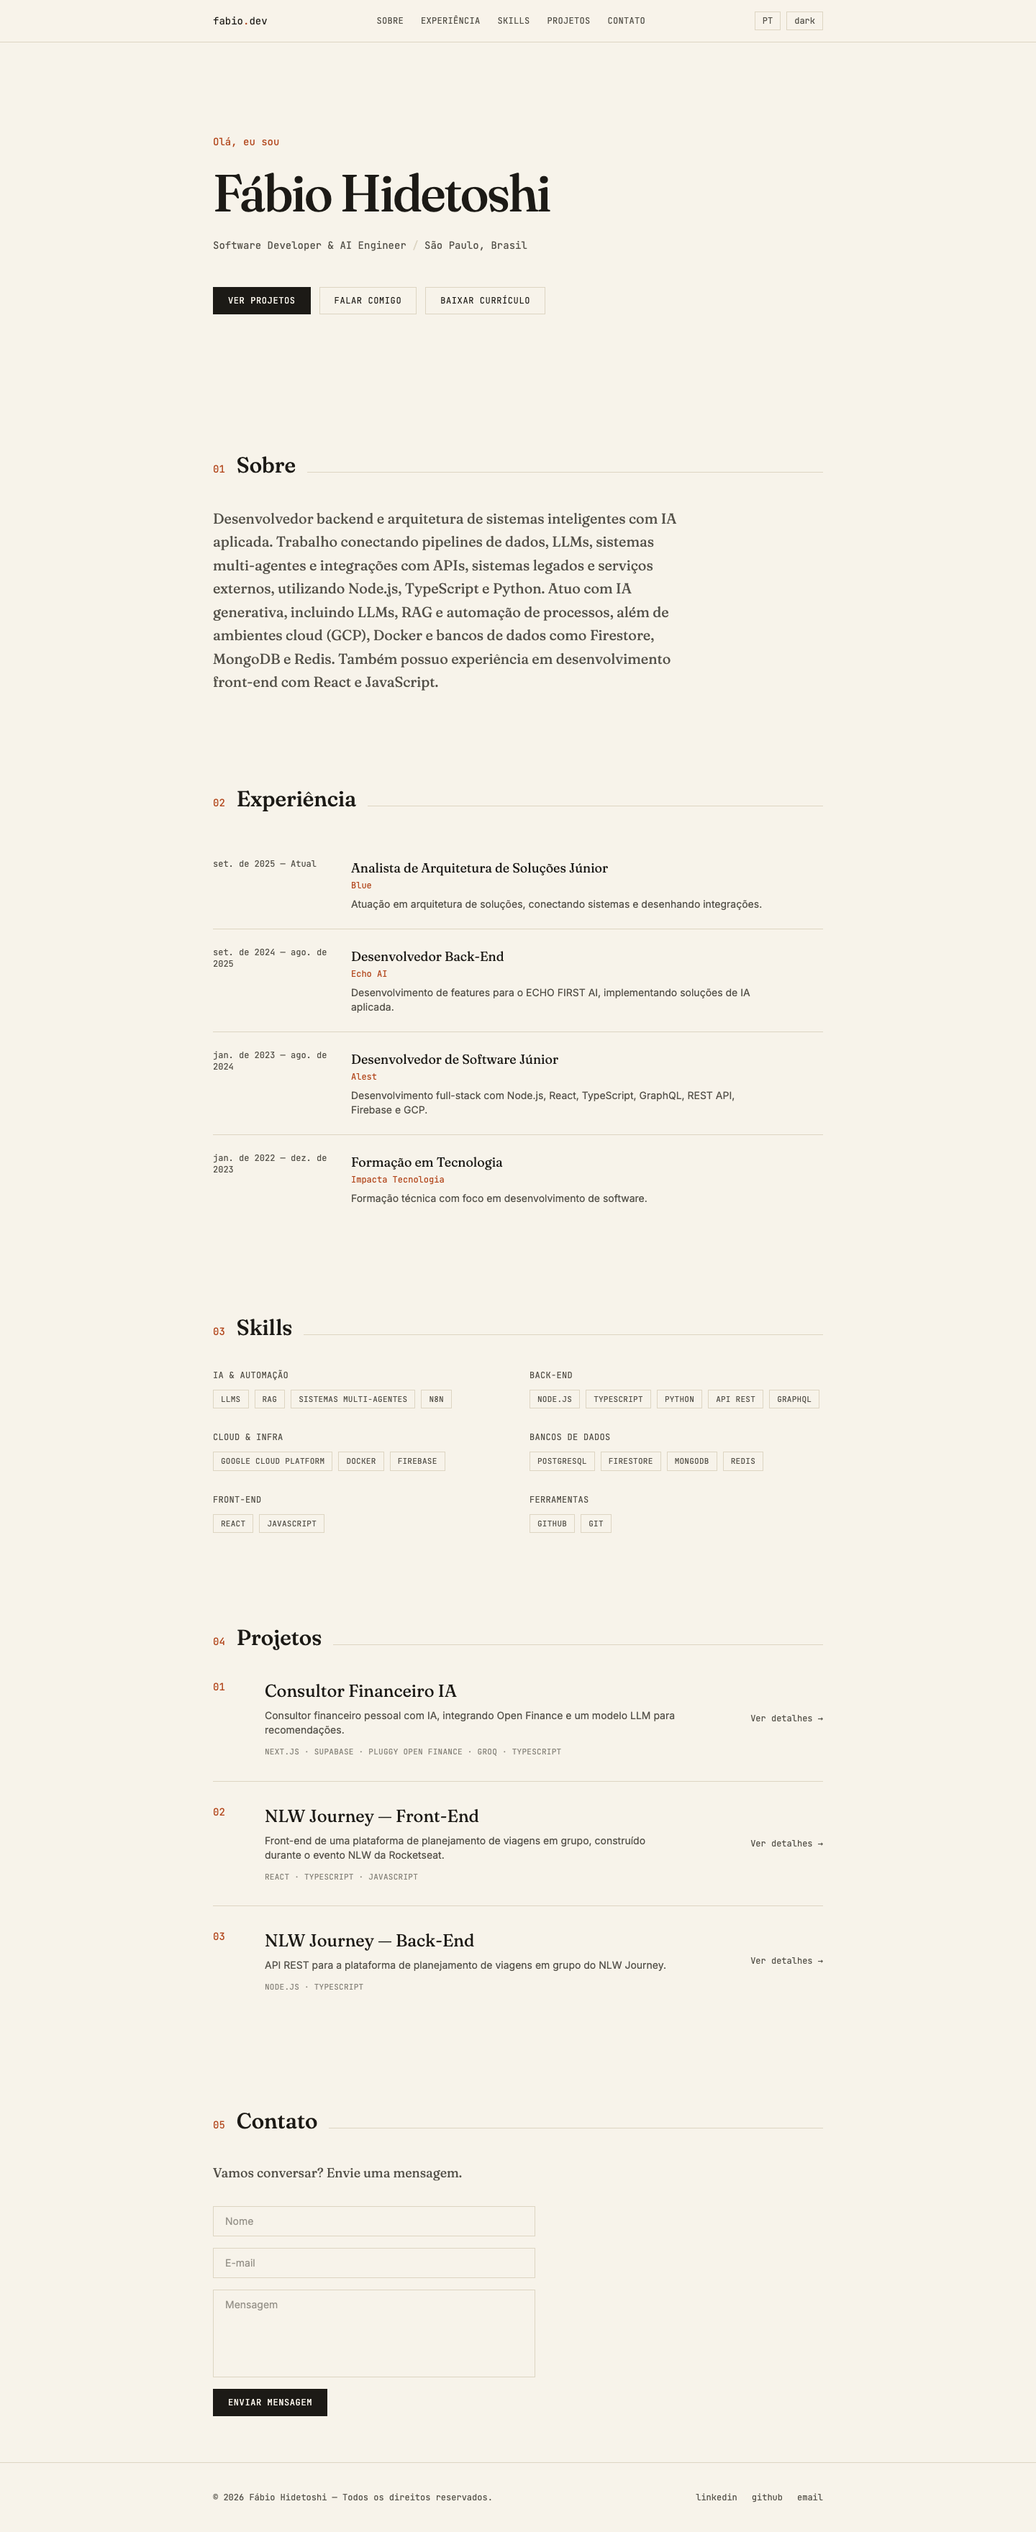
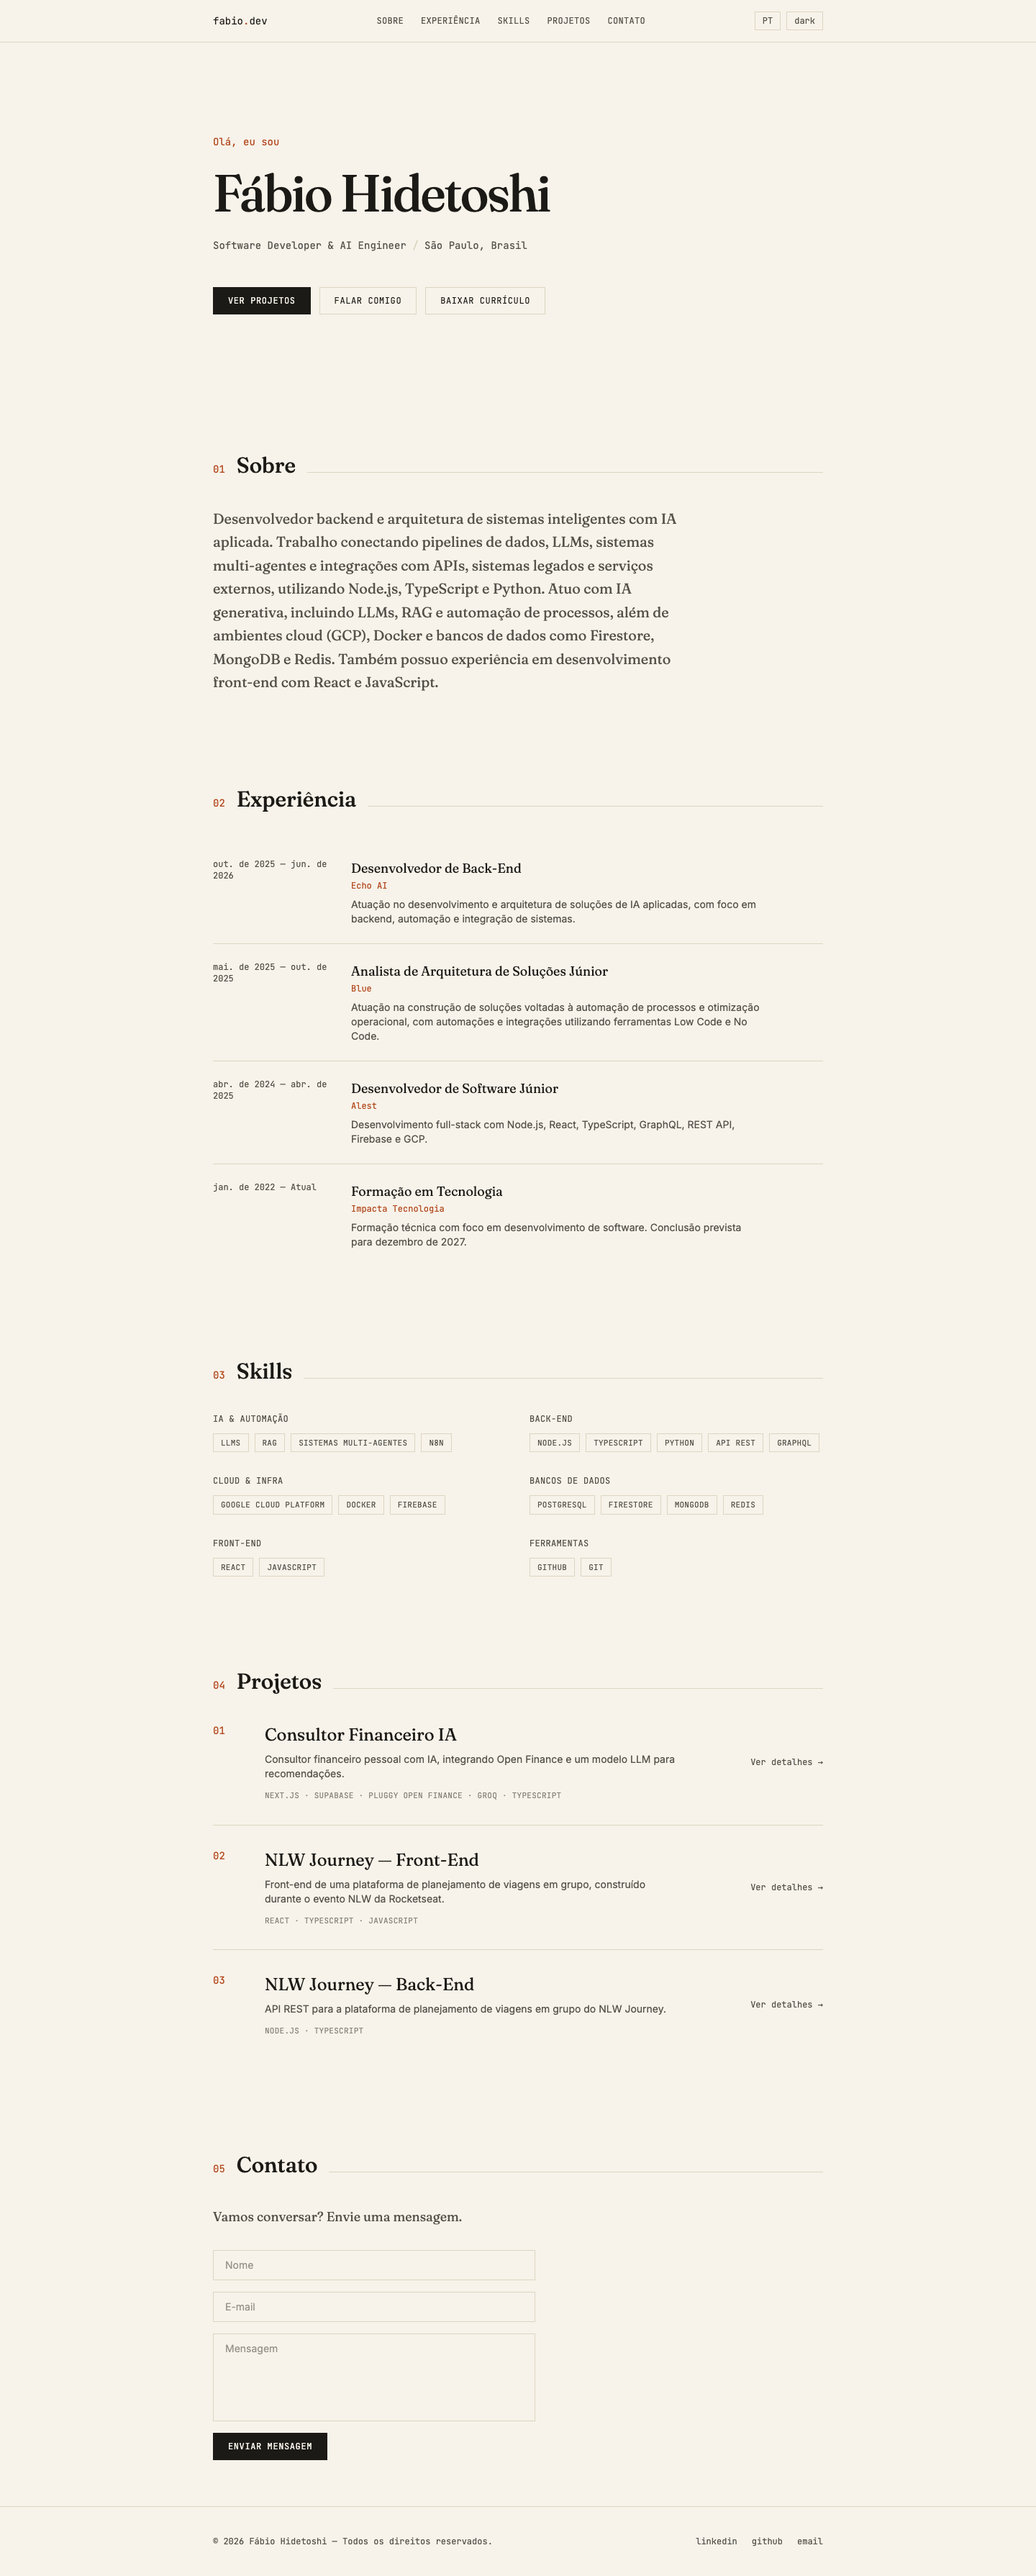
Atualiza informações de experiências profissionais e educacionais no seed.ts

diff --git a/server/src/db/seed.ts b/server/src/db/seed.ts
@@ -30,28 +30,32 @@ const skills: Array<{ name: string; category: string; display_order: number }> =
 
 const experiences = [
   {
-    company: "Blue",
+    company: "Echo AI",
     kind: "work",
-    role_pt: "Analista de Arquitetura de Soluções Júnior",
-    role_en: "Junior Solutions Architecture Analyst",
-    description_pt: "Atuação em arquitetura de soluções, conectando sistemas e desenhando integrações.",
-    description_en: "Working on solutions architecture, connecting systems and designing integrations.",
+    role_pt: "Desenvolvedor de Back-End",
+    role_en: "Back-End Developer",
+    description_pt:
+      "Atuação no desenvolvimento e arquitetura de soluções de IA aplicadas, com foco em backend, automação e integração de sistemas.",
+    description_en:
+      "Working on development and architecture of applied AI solutions, focused on backend, automation and systems integration.",
     location: "São Paulo, Brasil",
-    start_date: "2025-09-01",
-    end_date: null,
+    start_date: "2025-10-01",
+    end_date: "2026-06-30",
     company_url: null,
     display_order: 1,
   },
   {
-    company: "Echo AI",
+    company: "Blue",
     kind: "work",
-    role_pt: "Desenvolvedor Back-End",
-    role_en: "Back-End Developer",
-    description_pt: "Desenvolvimento de features para o ECHO FIRST AI, implementando soluções de IA aplicada.",
-    description_en: "Building features for ECHO FIRST AI, implementing applied AI solutions.",
+    role_pt: "Analista de Arquitetura de Soluções Júnior",
+    role_en: "Junior Solutions Architecture Analyst",
+    description_pt:
+      "Atuação na construção de soluções voltadas à automação de processos e otimização operacional, com automações e integrações utilizando ferramentas Low Code e No Code.",
+    description_en:
+      "Worked on building solutions focused on process automation and operational optimization, with automations and integrations using Low Code and No Code tools.",
     location: "São Paulo, Brasil",
-    start_date: "2024-09-01",
-    end_date: "2025-08-31",
+    start_date: "2025-05-01",
+    end_date: "2025-10-31",
     company_url: null,
     display_order: 2,
   },
@@ -63,8 +67,8 @@ const experiences = [
     description_pt: "Desenvolvimento full-stack com Node.js, React, TypeScript, GraphQL, REST API, Firebase e GCP.",
     description_en: "Full-stack development with Node.js, React, TypeScript, GraphQL, REST API, Firebase and GCP.",
     location: "São Paulo, Brasil",
-    start_date: "2023-01-01",
-    end_date: "2024-08-31",
+    start_date: "2024-04-01",
+    end_date: "2025-04-30",
     company_url: null,
     display_order: 3,
   },
@@ -73,11 +77,11 @@ const experiences = [
     kind: "education",
     role_pt: "Formação em Tecnologia",
     role_en: "Technology Education",
-    description_pt: "Formação técnica com foco em desenvolvimento de software.",
-    description_en: "Technical education focused on software development.",
+    description_pt: "Formação técnica com foco em desenvolvimento de software. Conclusão prevista para dezembro de 2027.",
+    description_en: "Technical education focused on software development. Expected graduation in December 2027.",
     location: "São Paulo, Brasil",
     start_date: "2022-01-01",
-    end_date: "2023-12-31",
+    end_date: null,
     company_url: null,
     display_order: 4,
   },
